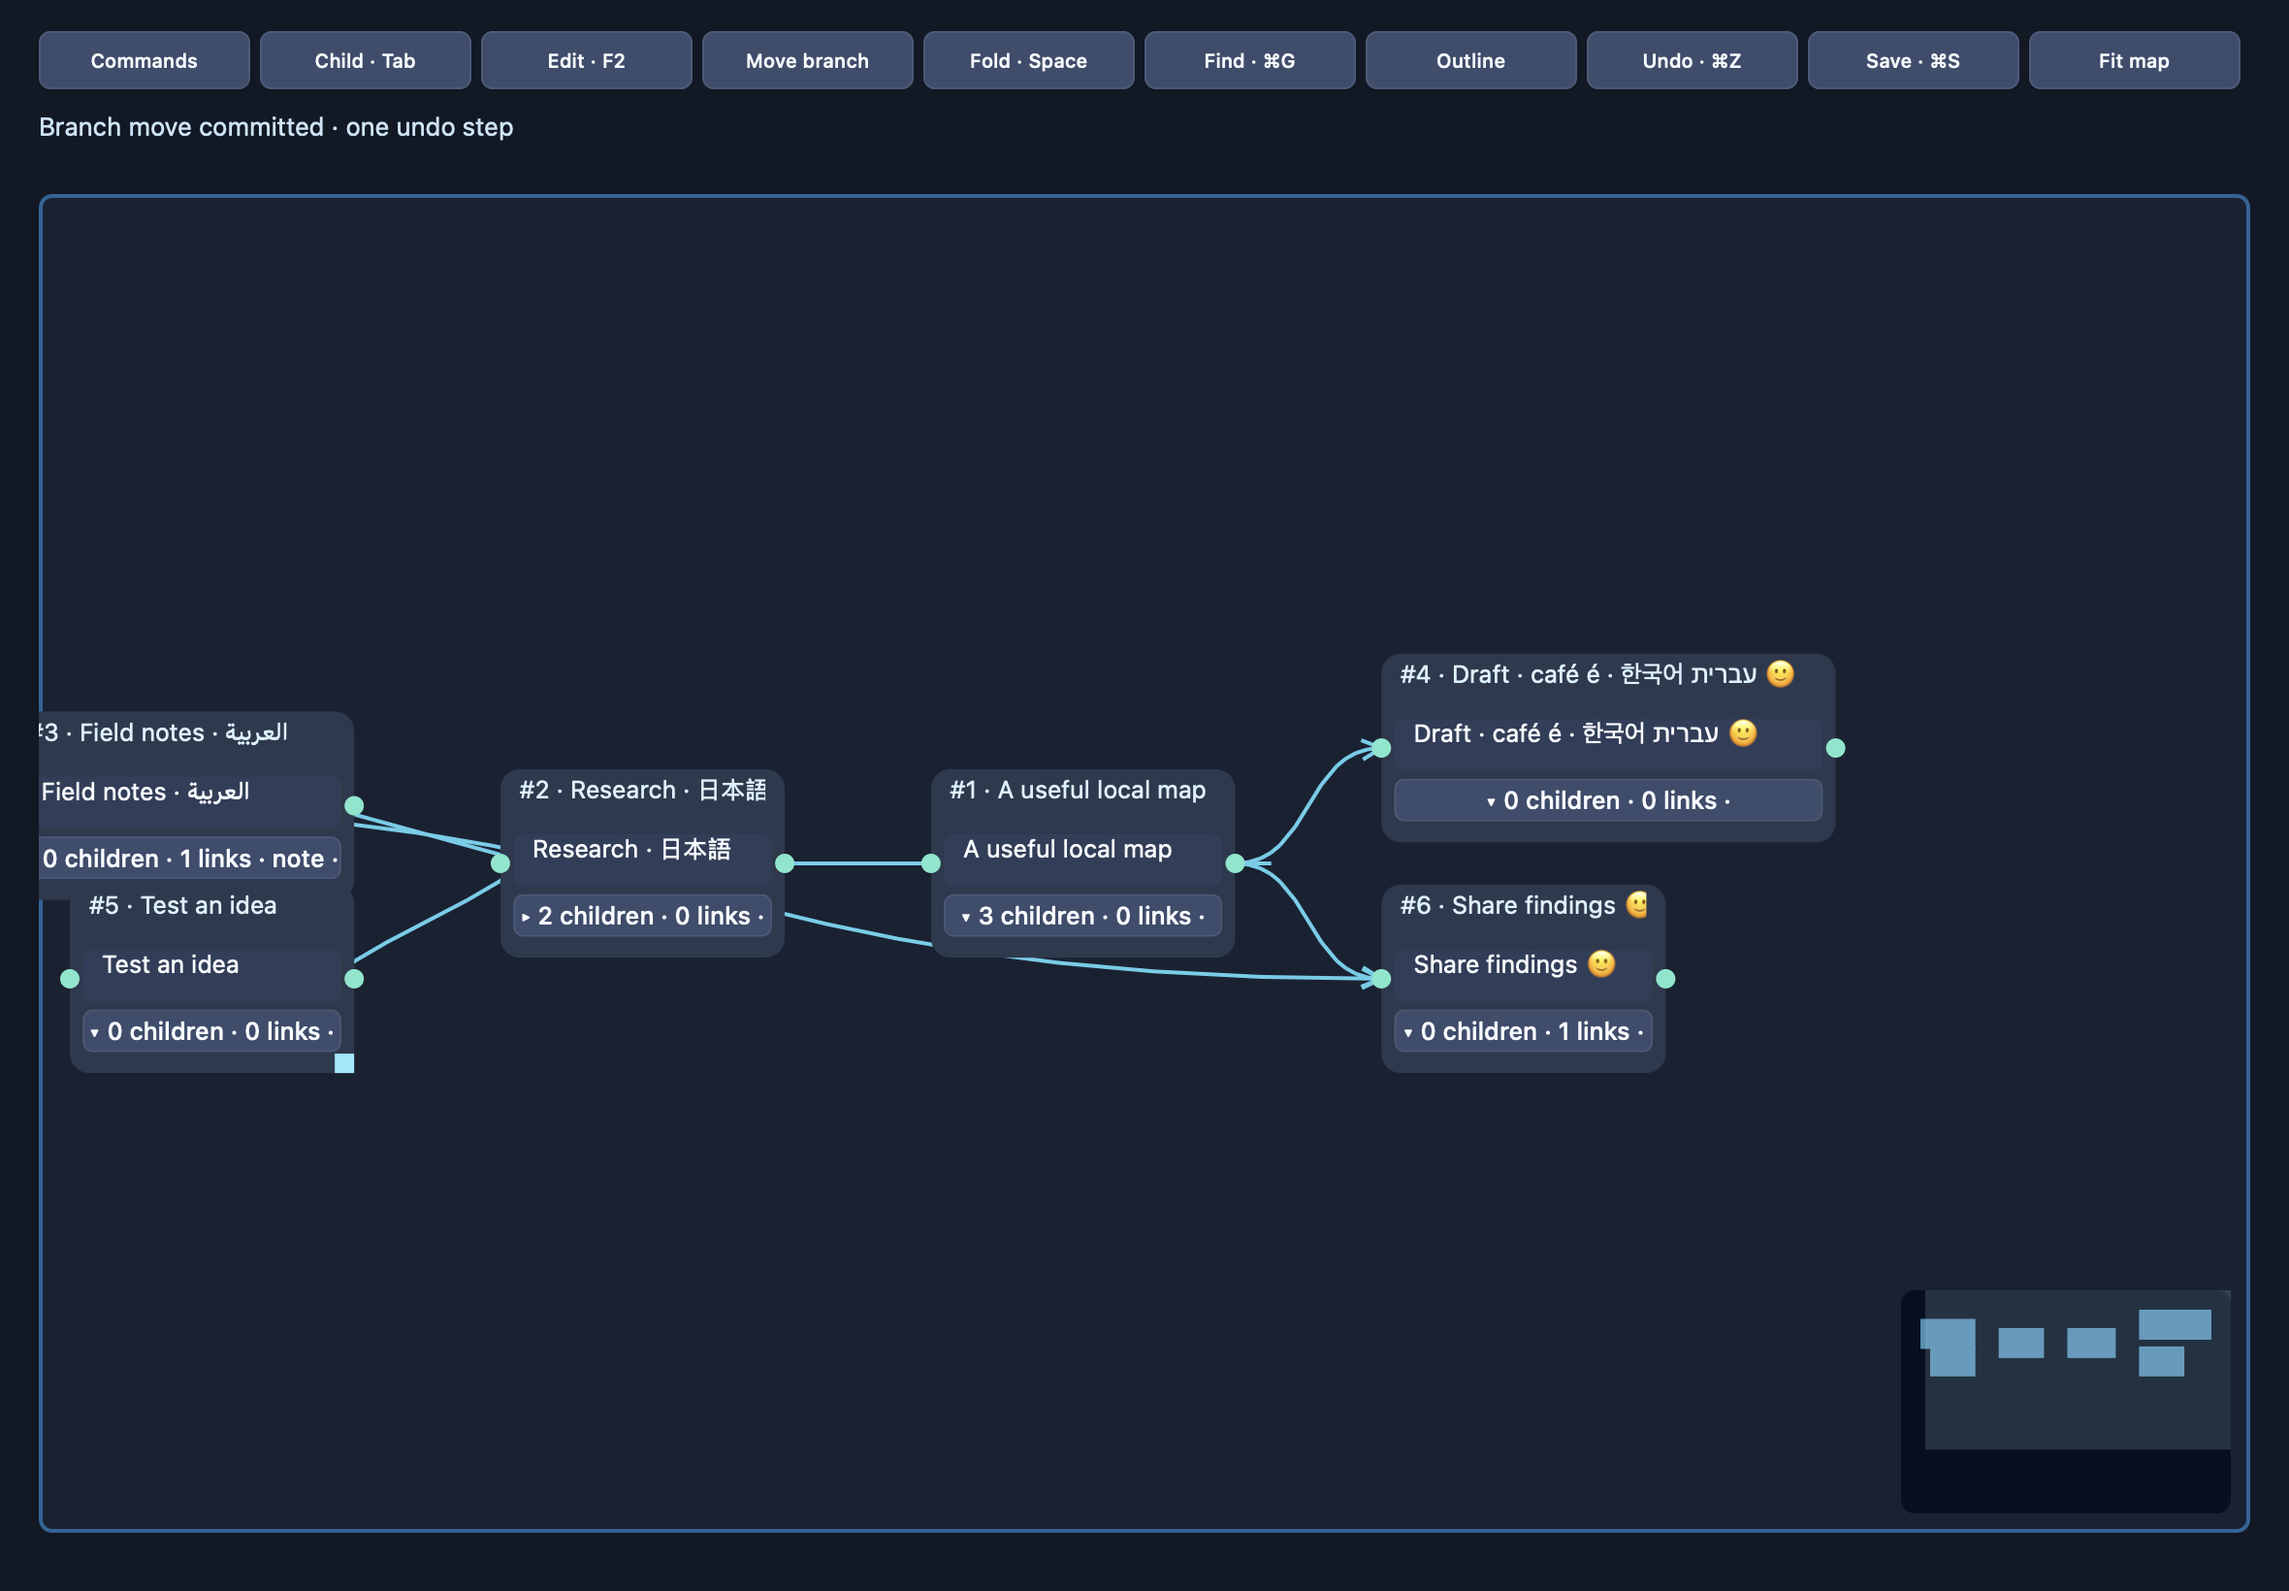
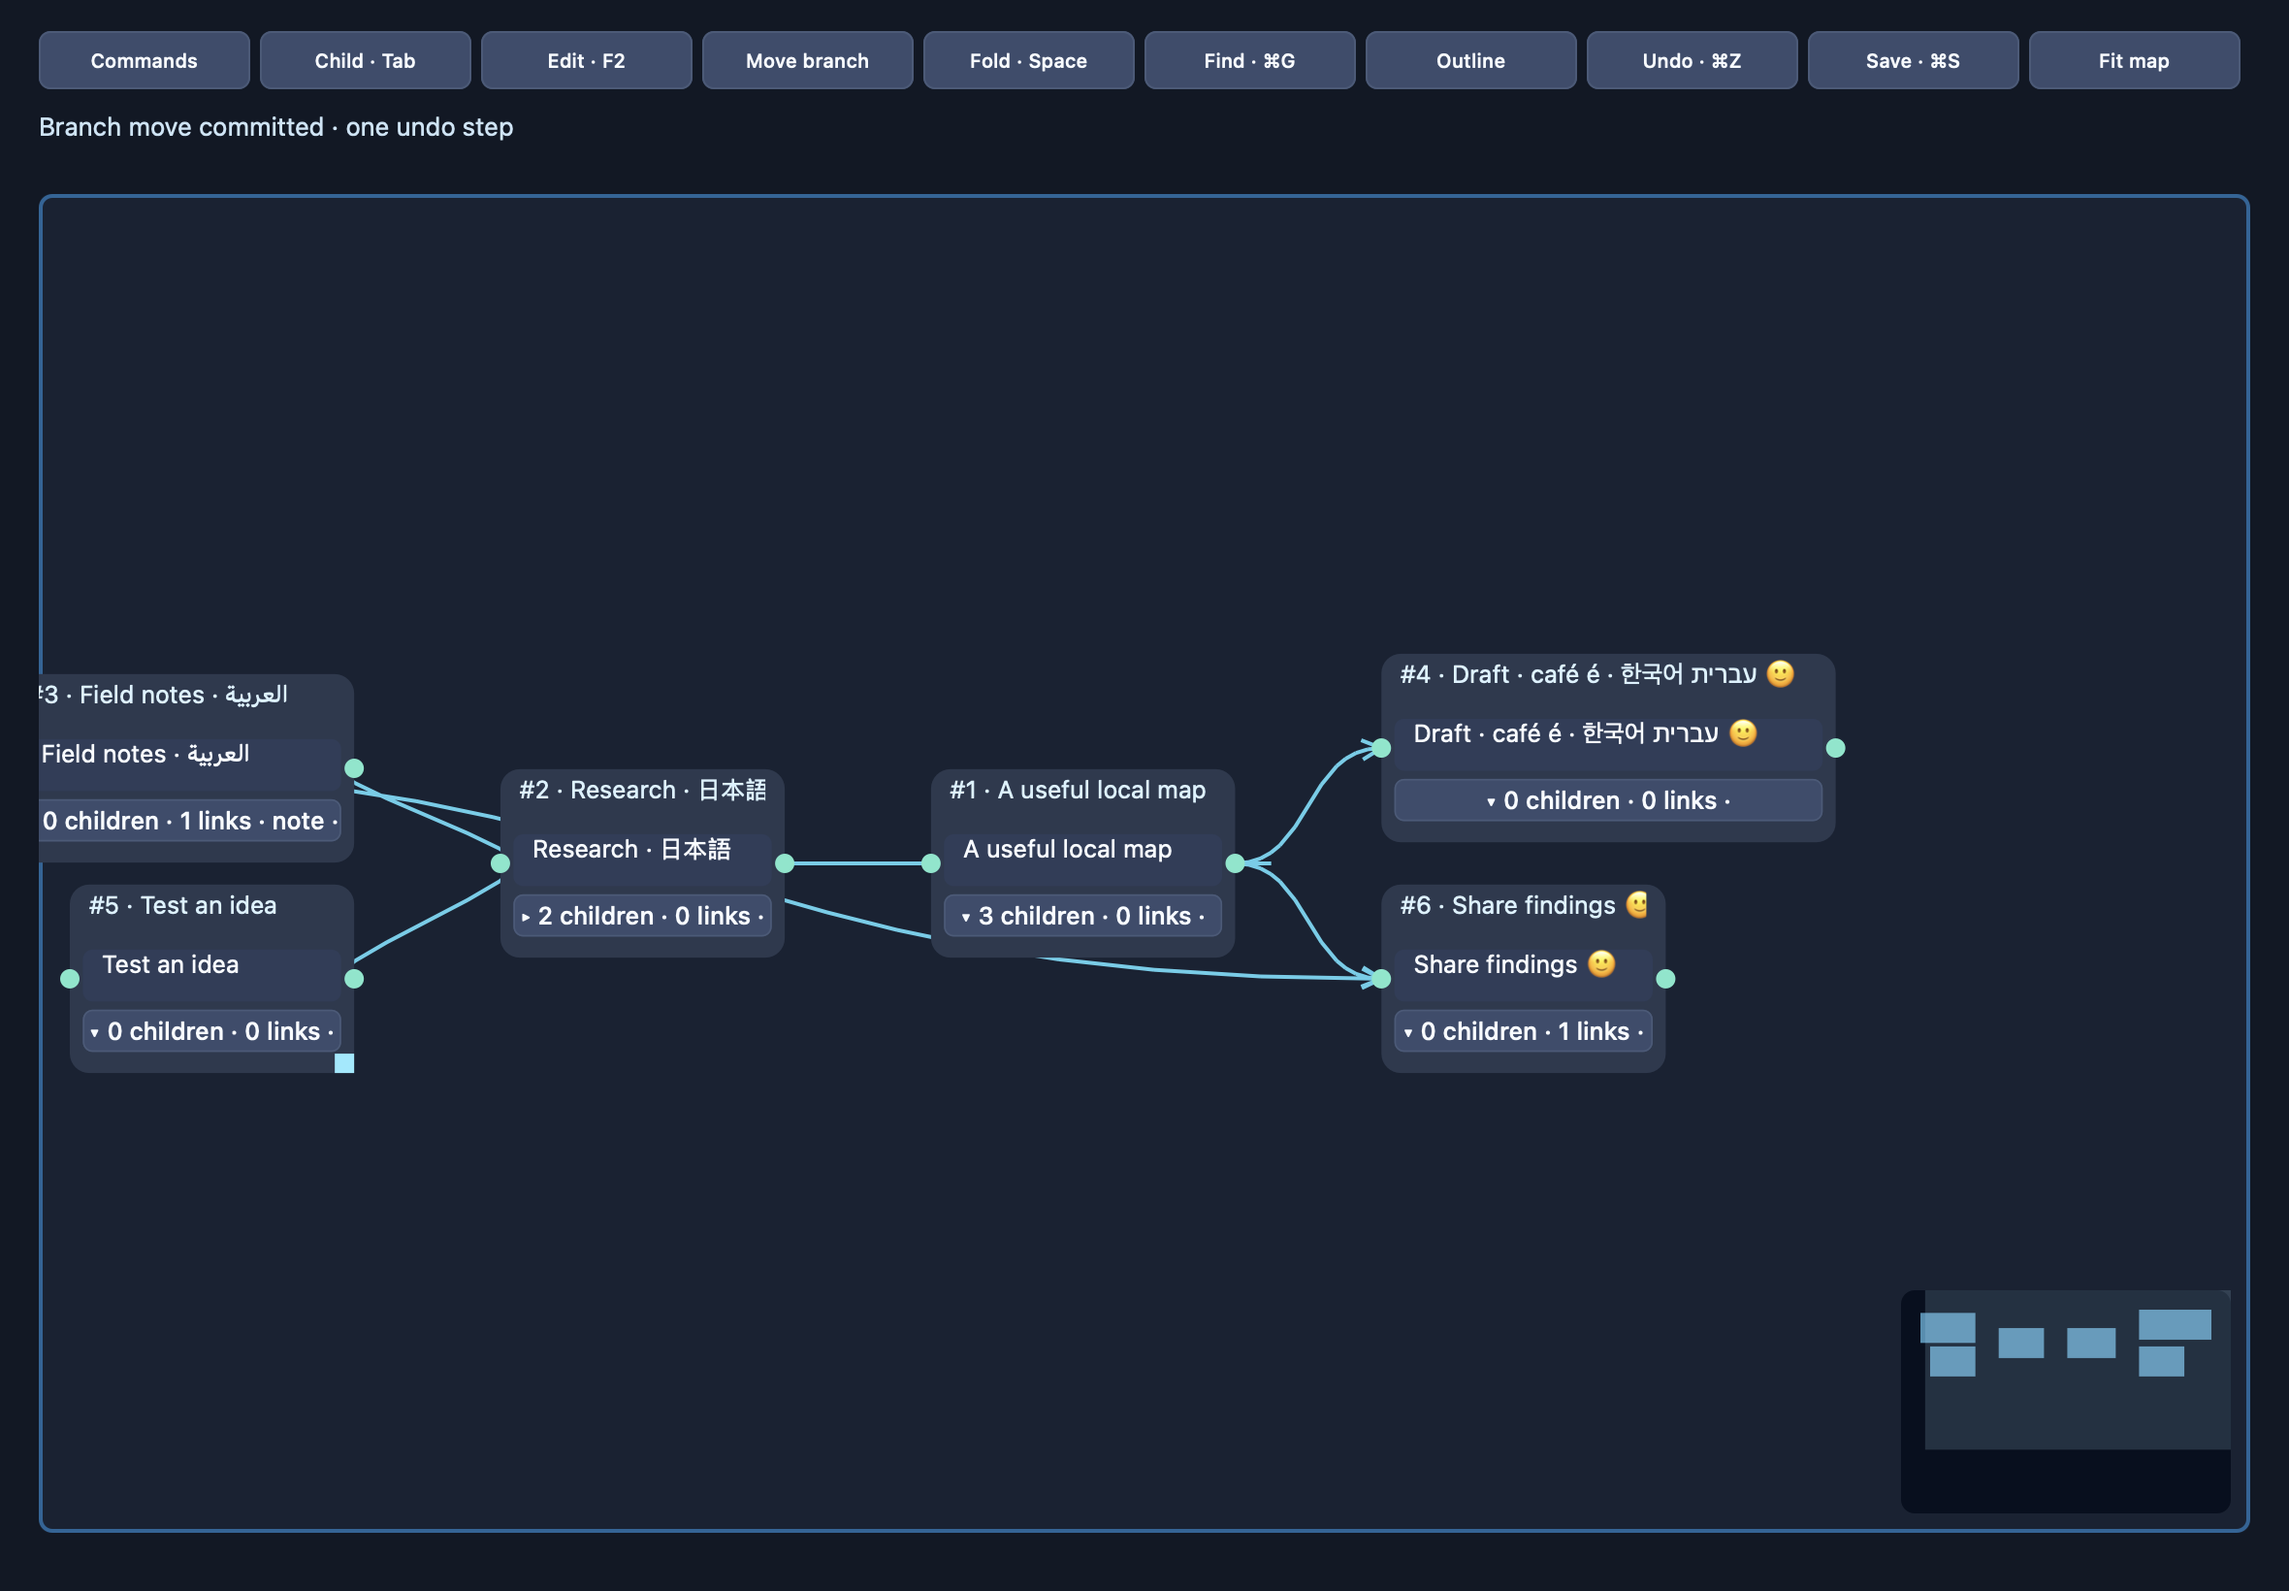
test(mindmap): retain the collision-free native reflow replay

diff --git a/artifacts/demo-slideshows/mindmap/REPRODUCE.md b/artifacts/demo-slideshows/mindmap/REPRODUCE.md
@@ -1,15 +1,15 @@
 # D04 native gallery review — November 23, 2026
 
-The four partial frames from the November 20 review have been repaired and
-recaptured from clean source `158c67a36c376bbc0f88eaf363669a0485473343`.
-All 20 native frames were reviewed; 19 pass their bounded scenarios and the first
-neighbor-reflow frame has the additional transient overlap described below.
+The four partial frames from the November 20 review and the subsequently observed
+first-frame reflow overlap have been repaired and recaptured from clean source
+`9d1f4e3a2bc32fd642cbb95fbc4e81230d8f695f`.
+All 20 native frames were reviewed and pass their bounded scenarios.
 The [validation record](validation.json) gives actions, expected and observed
 results, per-frame outcomes, source/binary/PNG hashes, environment and limits.
 
 These are AppKit content-view `cacheDisplay` **offscreen-render** captures of the
 real native executable at 2360 × 1640 pixels (1180 × 820 points, scale 2). The
-host was macOS 27.2 arm64, Mojo 1.1.0 (8189361e), Apple clang 21.0.0 and SDK 27.0.
+host was macOS 27.2.1 arm64, Mojo 1.1.0 (8189361e), Apple clang 21.0.0 and SDK 27.0.
 Only F2 traverses AppKit NSEvent dispatch; remaining inputs use public Event or
 command APIs. Physical input, IME and independent human acceptance remain open.
 
@@ -27,14 +27,18 @@ The repaired states are retained as native PNGs:
   readable local topics and the root. Replay reports 37 ordinary commands after
   culling. Dense incident edges, truncated long headers and the minimap covering
   part of the bottom card remain visible limits.
+- [Reflow start](06a-reflow-start.png) and [midpoint](06b-reflow-middle.png):
+  the committed branch stays fixed, while Field notes starts farther along its
+  existing upward path and its footer remains clear of the branch. Other
+  neighbors with clear paths retain their original animation start.
 
-[06a-reflow-start.png](06a-reflow-start.png) has a partial visual outcome: the
-moved branch immediately takes its final position while neighbors animate from
-their previous bounds, briefly covering part of Field notes’ footer. The midpoint
-and final frames separate them. Several intermediate camera states also crop
-Field notes at the left edge; Fit brings the six-topic map inside the viewport.
-These limits do not reopen the four repaired states or establish native capacity
-or presentation-timed animation acceptance.
+The overlap regression was reproduced before repair by both a focused contract
+and the real native replay. Their new assertions failed at the first reflow frame.
+After repair, the native start/midpoint assertions and all six contracts pass.
+Only the two reflow PNGs changed; the other 18 match the previous reviewed capture
+byte for byte. Several camera states still crop Field notes at the left edge;
+Fit brings the six-topic map inside the viewport. These deterministic snapshots
+do not establish presentation-timed animation or native capacity acceptance.
 
 The recipe records 184 authored input hashes, including native `.inc` files.
 Git’s tracked/unignored inventory excludes generated Rust target JSONs and
@@ -42,8 +46,9 @@ retains unignored new authored inputs in scoped dirty evidence. The shared
 [checker](../check_d04_d07.py) verifies all 184 inputs against their capture
 commit and current checkout bytes, plus all 20 PNG hashes and dimensions. D07
 retains its independent clean capture revision when its inputs remain identical.
-Five isolated negative cases reject missing frames, wrong PNG/source hashes,
-untracked authored capture inputs and abbreviated capture revisions.
+The checker's previously exercised five isolated negative cases reject missing
+frames, wrong PNG/source hashes, untracked authored capture inputs and abbreviated
+capture revisions; those cases were reused because the checker is unchanged.
 
 From the repository root:
 
@@ -63,19 +68,21 @@ the native executable. The recipe also renders its own `index.html`. Source or
 capture changes require new provenance checks and visual review; these commands
 do not certify that a changed implementation still looks correct.
 
-The six-part contract suite and 70-command inventory passed before the final
-editor size guard; the application contract passed again after that refinement.
-It checks unchanged-size input delivery without neighbor remounts, temporary
-editor growth/cancel, valid preview destinations, move/undo and the large-map
-initial camera. The final native build/replay and two-gallery schema check
-exited 0. Build warnings concern deprecated string conversion, the macOS
+The six-part contract suite and 70-command inventory passed after the final
+reflow repair. They check unchanged-size input delivery without neighbor remounts,
+temporary editor growth/cancel, valid preview destinations, move/undo, the large-map
+initial camera, initial/later path collisions against two moved descendants,
+ordinary-neighbor interpolation and exact settling. The final native build/replay,
+two-gallery source/hash checker and focused three-gallery schema check exited 0.
+Build warnings concern deprecated string conversion, the macOS
 link/deployment target and an unused shared-canvas assignment. Saved and recovery
 fixture bytes were checked separately: only the recovery envelope contains the
 recovered-draft suffix.
 
 All 20 native PNGs are deliverables beside this record, retained by a scoped
 ignore exception. HTML and binaries remain generated. Full logs/contact sheets
-are disposable local attachments in `/tmp/moxi-d04-d07-158c67a-evidence/`.
+are disposable local attachments in `/tmp/moxi-d04-reflow-9d1f4e3-evidence/`;
+the reused checker negative cases remain in `/tmp/moxi-d04-d07-158c67a-evidence/`.
 The [catalog audit](../CATALOG-AUDIT.md) distinguishes these retained images from
 older galleries whose PNGs are only local or absent.
 
